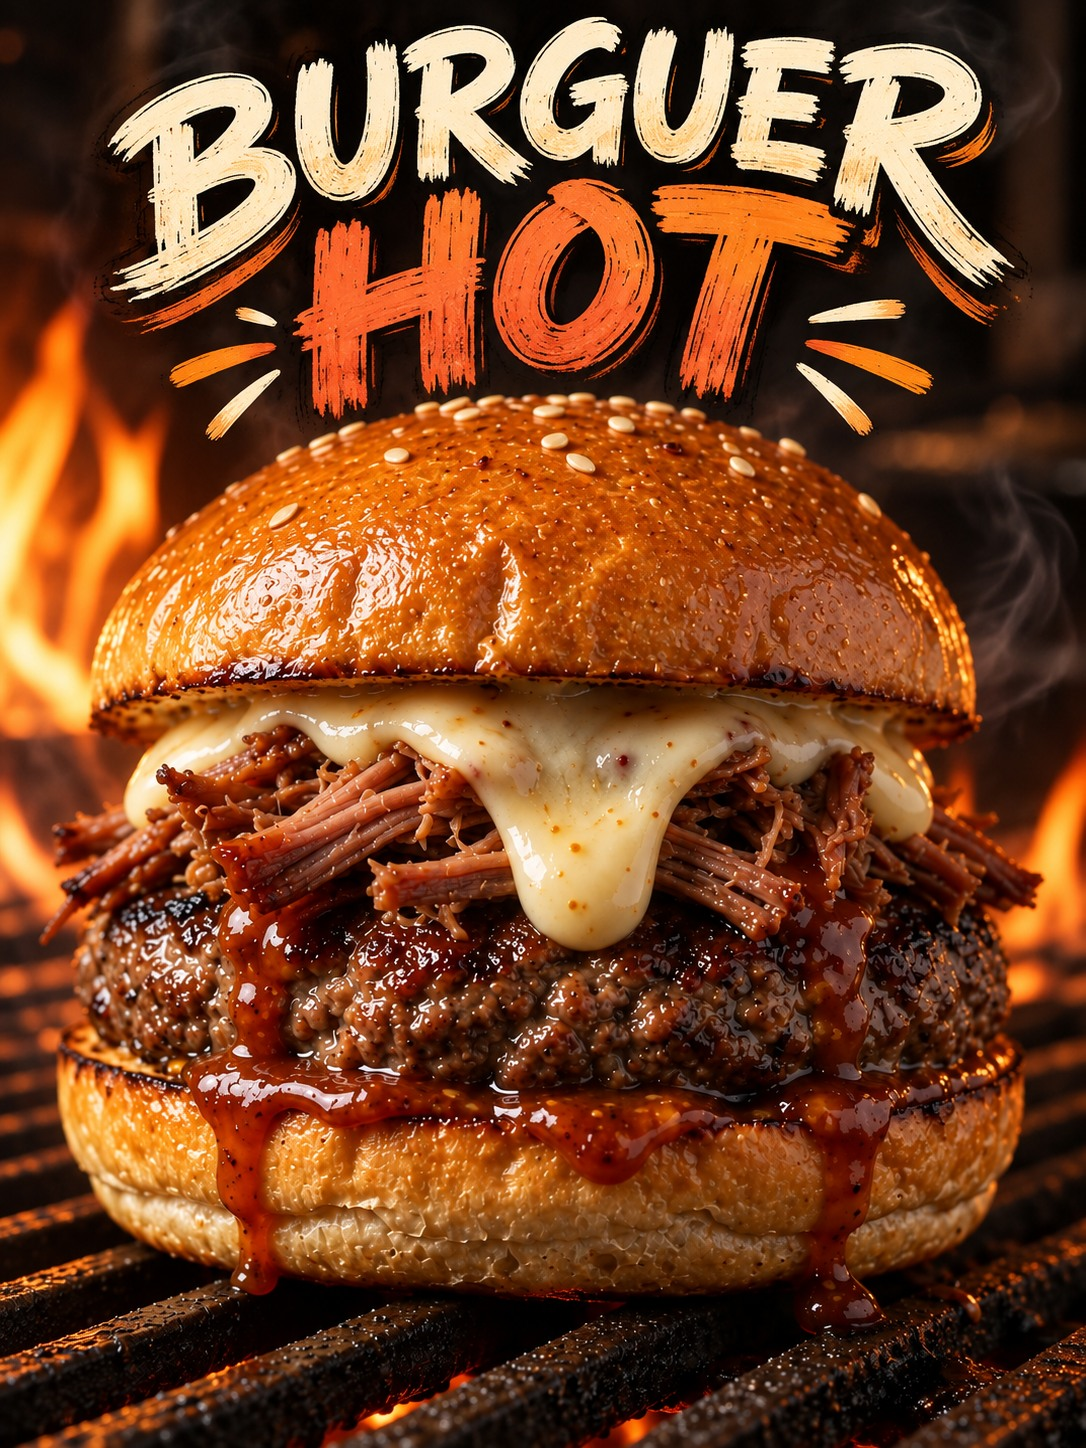
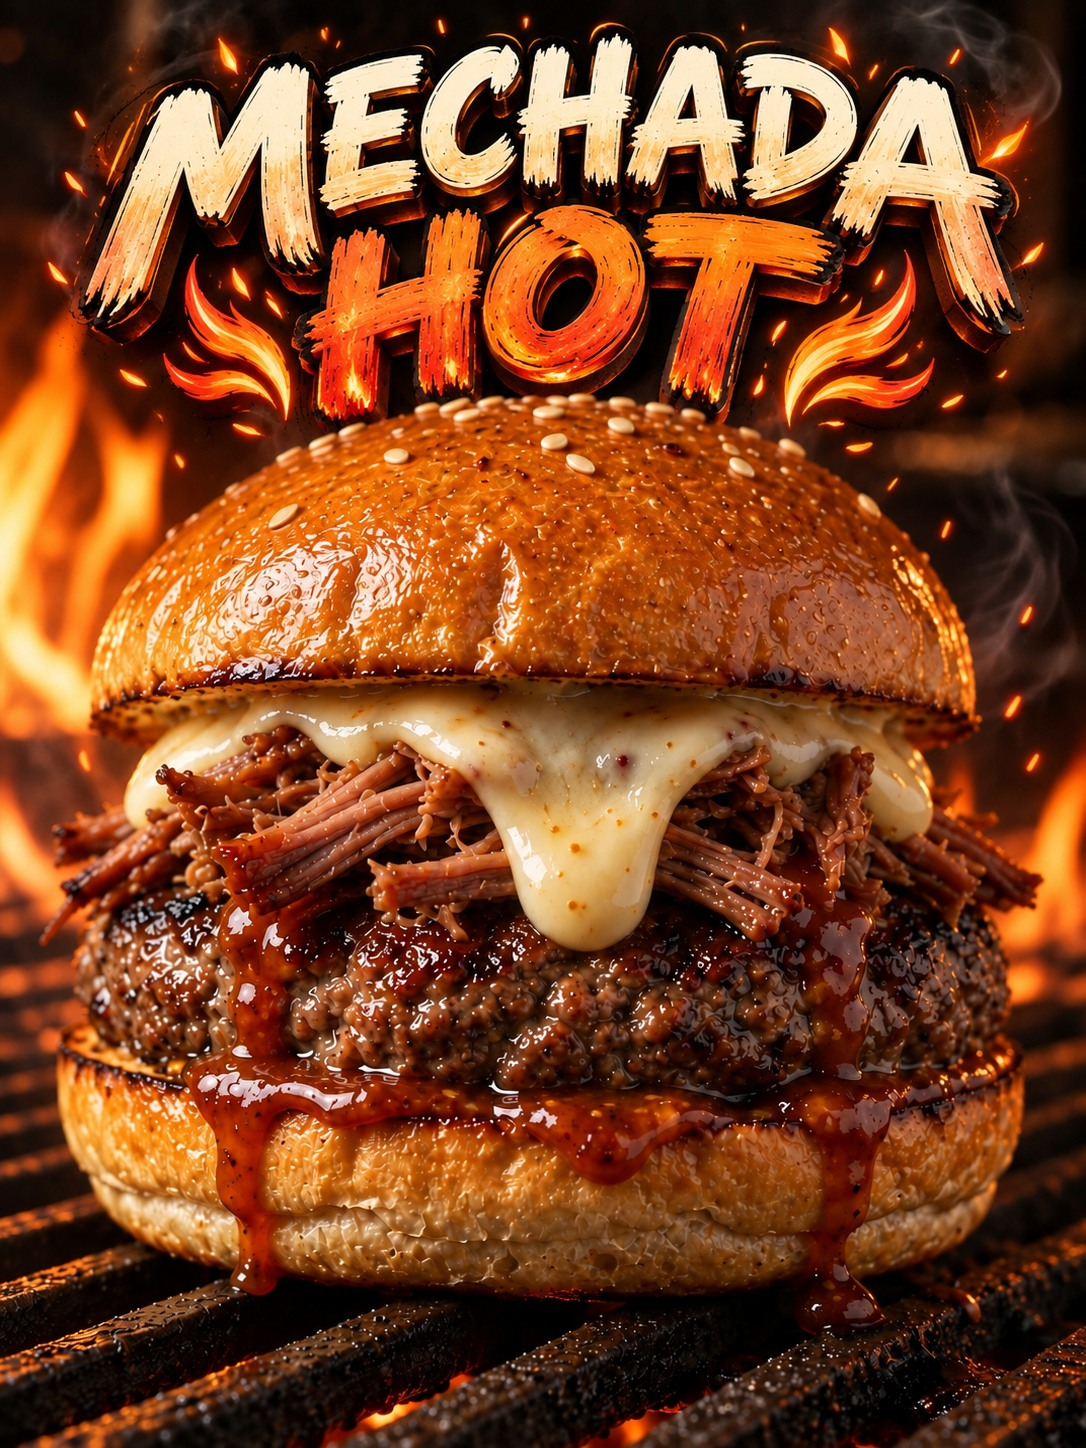
chatgpt: Mechada Hot — rótulo 3D y fuego

diff --git a/producciones/index.html b/producciones/index.html
@@ -248,7 +248,7 @@
       "fotos": [
         { "src": "fotos/producto/01.jpg", "alt": "Hamburguesa de carne mechada, queso fundido y salsa sobre una parrilla encendida." },
         { "src": "fotos/producto/02.jpg", "alt": "Primer plano de hamburguesa de carne mechada con queso fundido y salsa brillante." },
-        { "src": "fotos/producto/03.jpg", "alt": "Rótulo ilustrado BURGUER HOT sobre una hamburguesa de carne mechada a la brasa." }
+        { "src": "fotos/producto/03.jpg", "alt": "Rótulo ilustrado MECHADA HOT con volumen 3D y llamas sobre una hamburguesa de carne mechada a la brasa." }
       ]
     },
     {
